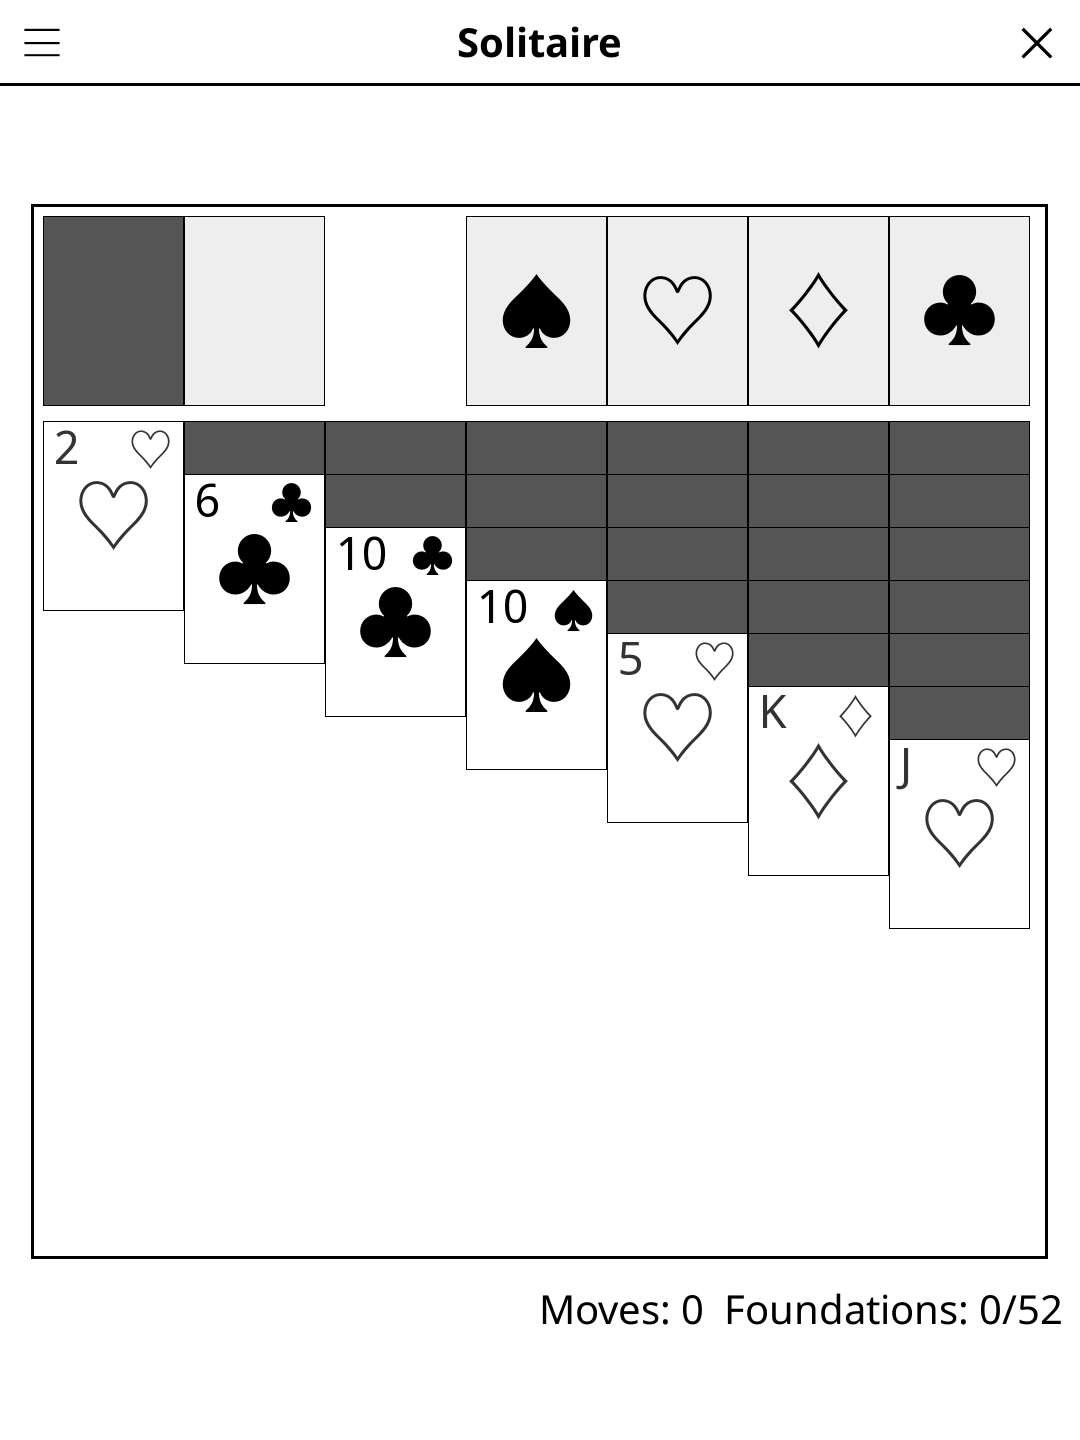
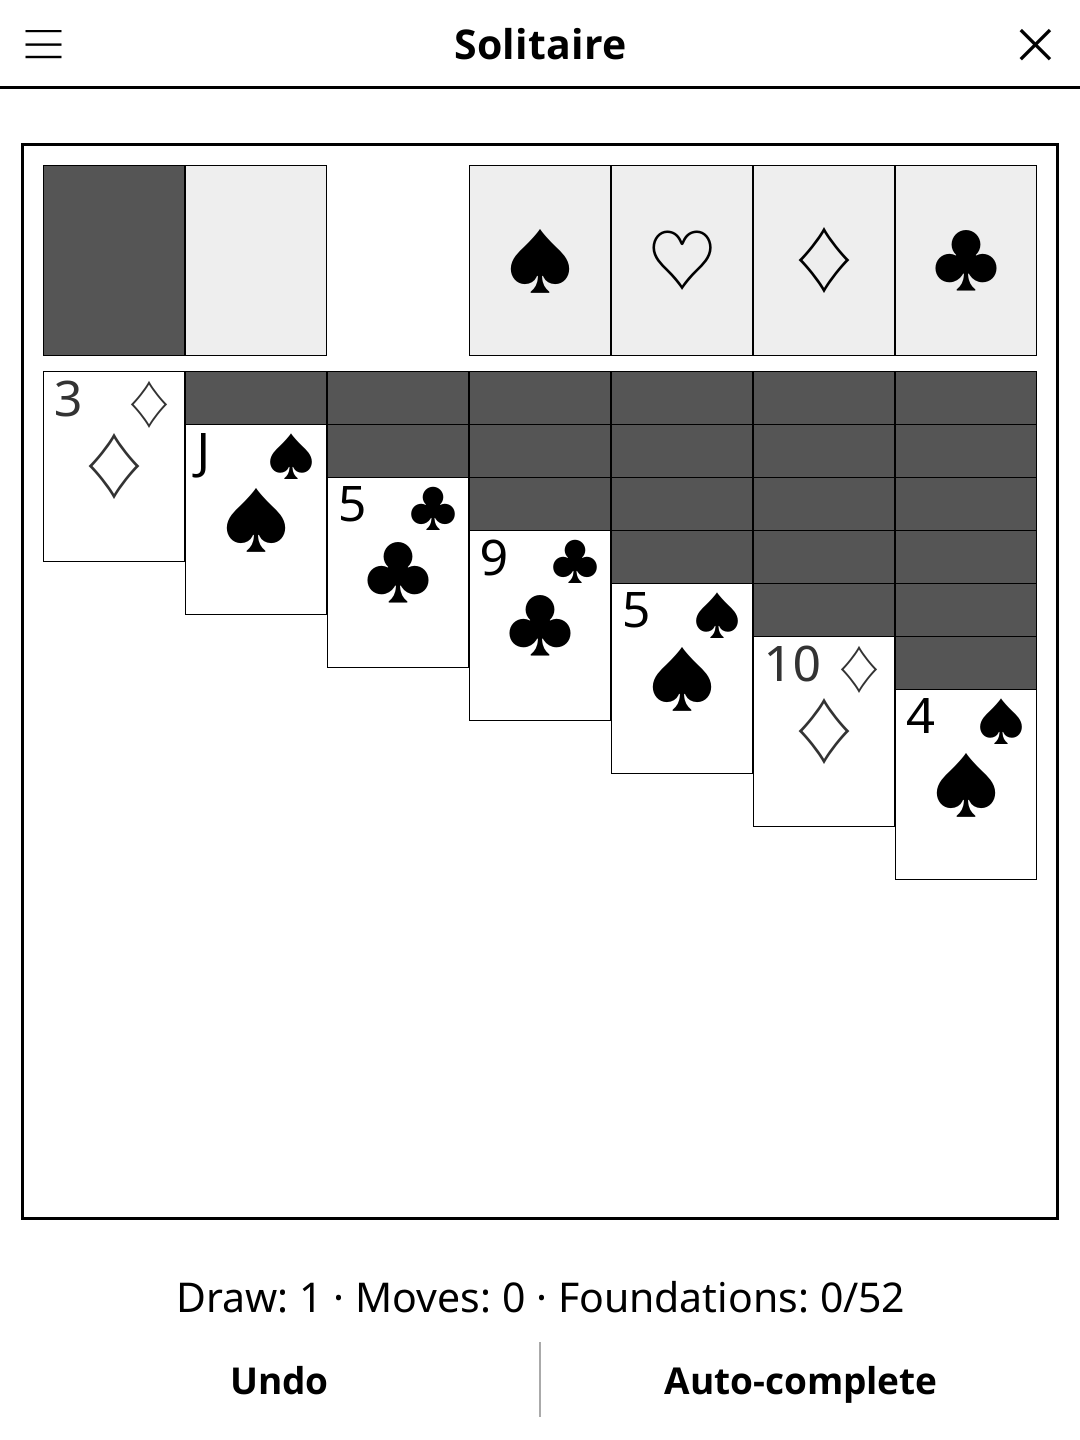
release: 1.1.0 -- redesigned screen, harmonised menu, New game at round end
Screen redesign (full-width action bar, unified pad, status line, larger
board), harmonised title-bar menu, and a "New game" button once the round
is over. See CHANGELOG.md.

diff --git a/CHANGELOG.md b/CHANGELOG.md
@@ -6,6 +6,29 @@ Reconstructed from this repository's git history: each release lists the
 feature and fix commits it carried. Version bumps, screenshot additions
 and CI syncs are left out.
 
+## [1.1.0] - 2026-10-30
+
+### Changed
+- Redesigned play screen: Undo and Auto-complete moved from the title-bar
+  menu to a full-width action bar under the board, since they are used during
+  play. The cards are as large as the room allows while still fitting a full
+  13-card column.
+- The title-bar menu shows "Draw: 1" / "Draw: 3" (was "Draw 1"), in the same
+  order as every other game: New game, Draw, Rules.
+- The status line reads "Draw: 1 · Moves: 42 · Foundations: 12/52" and wraps
+  in landscape instead of being cut off.
+- A selected card gets a thick black outline (a light grey one read as
+  thinner than the edge of an unselected card).
+- The rules now mention double-tap to send a card to its foundation, Undo and
+  Auto-complete.
+- Once the game is won, the action bar shows "New game" in place of Undo and
+  Auto-complete.
+
+### Fixed
+- Card labels were sized from the card width and then scaled again for the
+  screen's DPI; the rank now fits the strip left visible on a fanned card on
+  every screen.
+
 ## [1.0.13] - 2026-10-01
 
 ### Fixed

diff --git a/README.md b/README.md
@@ -31,7 +31,7 @@ The classic Klondike solitaire card game.
 | Auto-complete | Tap **Auto-complete** |
 | Undo last move | Tap **Undo** |
 | New game | Tap **New game** |
-| Change draw mode | Tap **Draw mode** |
+| Change draw mode | Tap **Draw** |
 
 ## Installation
 
